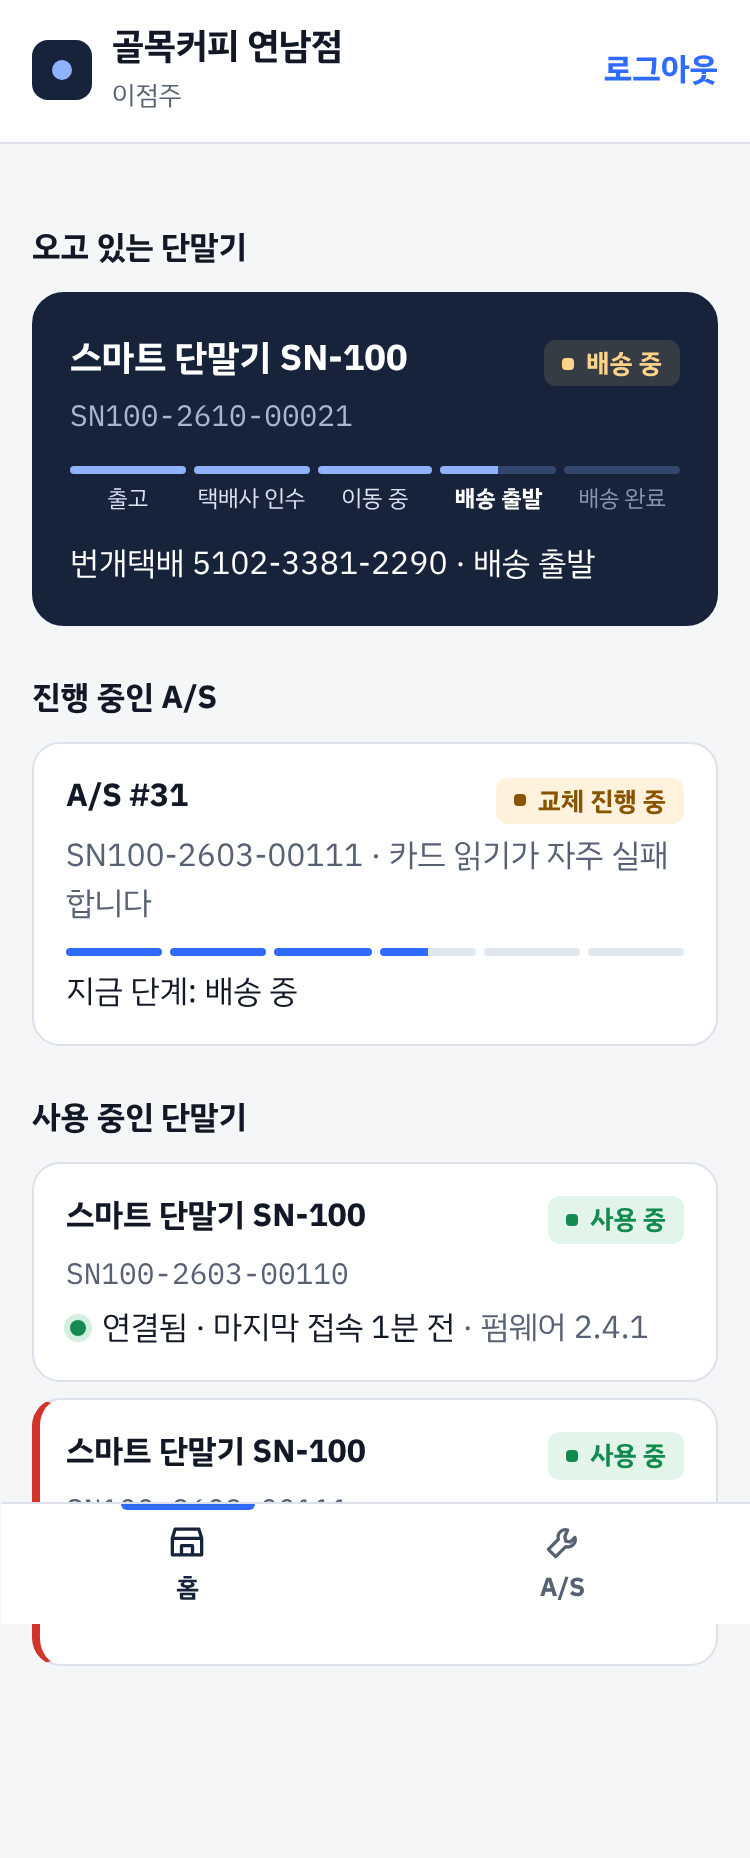
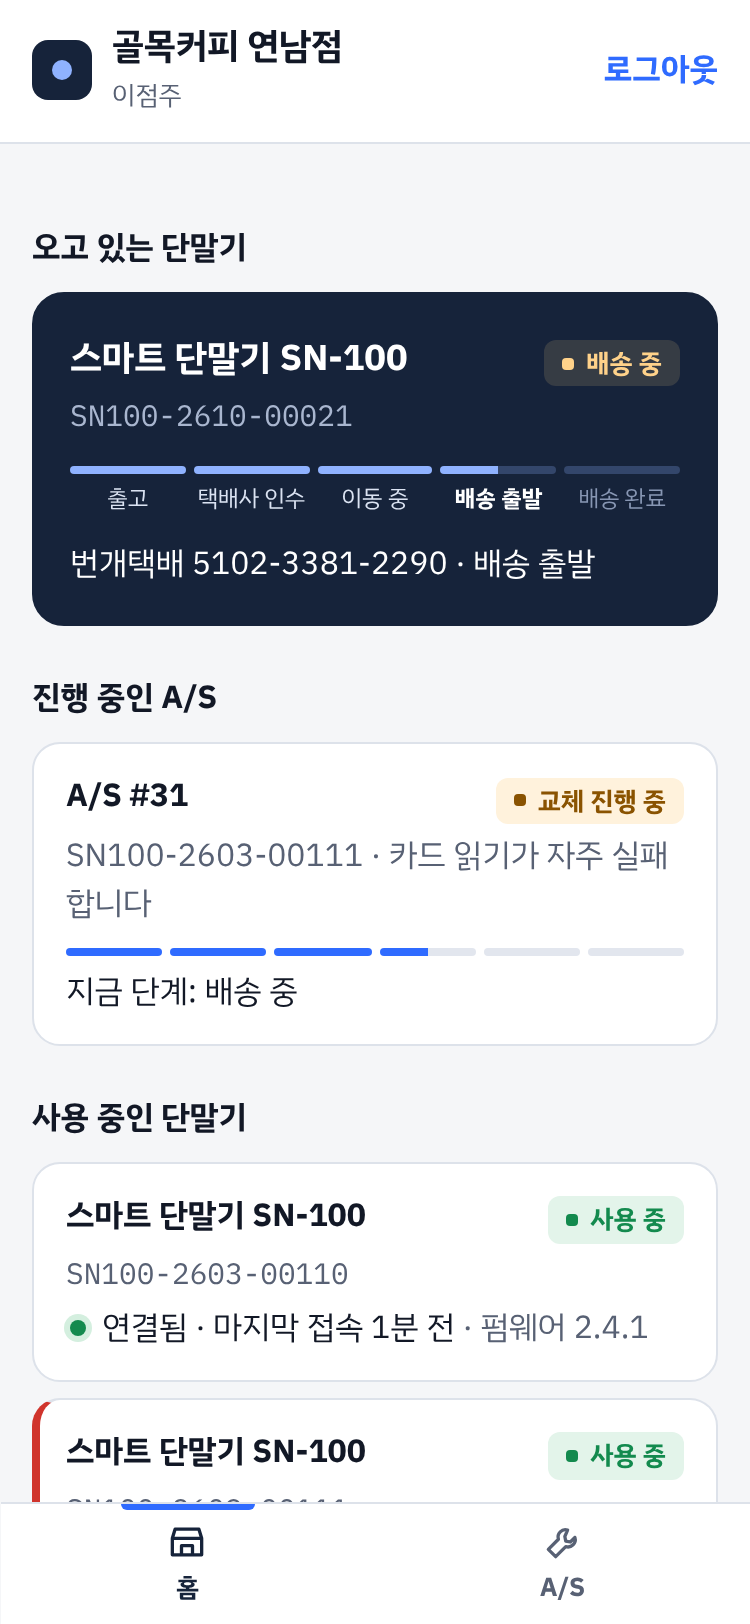
fix(landing): 세 화면의 휴대폰 사진 두 장 높이 맞춤
- 매장 사진이 전체 페이지로 찍혀 다른 사진보다 길었다(750×1858) — 375×812 비율로 자름
- 좁은 화면은 두 대를 같은 높이에(엇갈림은 넓은 화면에서만)

Claude-Session: https://claude.ai/code/session_01UTXhgupWzU5T2VRrRLe7vu

diff --git a/apps/landing/src/styles.css b/apps/landing/src/styles.css
@@ -596,15 +596,12 @@ a {
   width: 100%;
 }
 
+/* 좁은 화면은 움직임이 없어 엇갈리면 정렬이 틀어져 보인다 — 두 대를 같은 높이에 둔다(엇갈림은 넓은 화면에서만) */
 .shot-field,
 .shot-merchant {
   width: 100%;
   max-width: 240px;
   margin-top: -12%;
-}
-
-.shot-merchant {
-  margin-top: -4%;
 }
 
 .shot-field img,

diff --git a/docs/devlog/2026-10-29.md b/docs/devlog/2026-10-29.md
@@ -178,3 +178,9 @@
 - 한 일: 기준 폭 셋(599 이하·600~1099·1100 이상). 두 단·겹침·parallax는 1100px 이상만(`gsap.matchMedia`), 그 아래는 한 단·흐름 배치. 큰 제목은 폭을 따라 줄고 줄마다 `nowrap`. 휴대폰에서 뒤 시리얼은 사진 뒤쪽으로
 - 확인: 390×844·768×1024·1024×768·1440×900에서 다시 찍어 봤다 — 겹침·잘림 없음, `scrollWidth`가 각 폭과 같음(가로 스크롤 없음). `Tests  14 passed (14)`, tsc 0, build 성공. 미리보기 아티팩트를 새 빌드로 바꿨다
 - 결정: decisions/0071 보탬
+
+## 15:20 소개 페이지 세 화면 — 휴대폰 사진 두 장 높이 맞춤 (커밋 = 이 항목이 든 커밋)
+- 이전 커밋: f32848a (fix(landing): 패드·휴대폰 배치)
+- 문제: 좁은 화면에서 PC 사진 아래 휴대폰 두 대의 세로가 달랐다. 원인 둘 — (1) 일부러 엇갈려 둔 위 여백(-12%·-4%), (2) **매장 사진 원본이 750×1858**(전체 페이지로 찍음)이라 현장 사진(750×1624, 375×812의 2배)보다 길었다. (2)는 의도가 아니라 실수 — `img`의 width·height 속성(375×812)과도 맞지 않았다
+- 한 일: 매장 사진을 위에서 750×1624로 잘랐다(아래 탭이 화면 바닥에 오는 모양 그대로). 좁은 화면은 움직임이 없어 엇갈림이 정렬 틀어짐처럼 보여 두 대를 같은 높이에 둔다(엇갈림·parallax는 1100px 이상만)
+- 확인: 390·768px에서 두 사진 위 끝이 같은 값(390: 354·354, 768: 467·467 — `getBoundingClientRect().top`), 찍어 보니 아래 끝도 같다. 미리보기 아티팩트를 바꿨다
